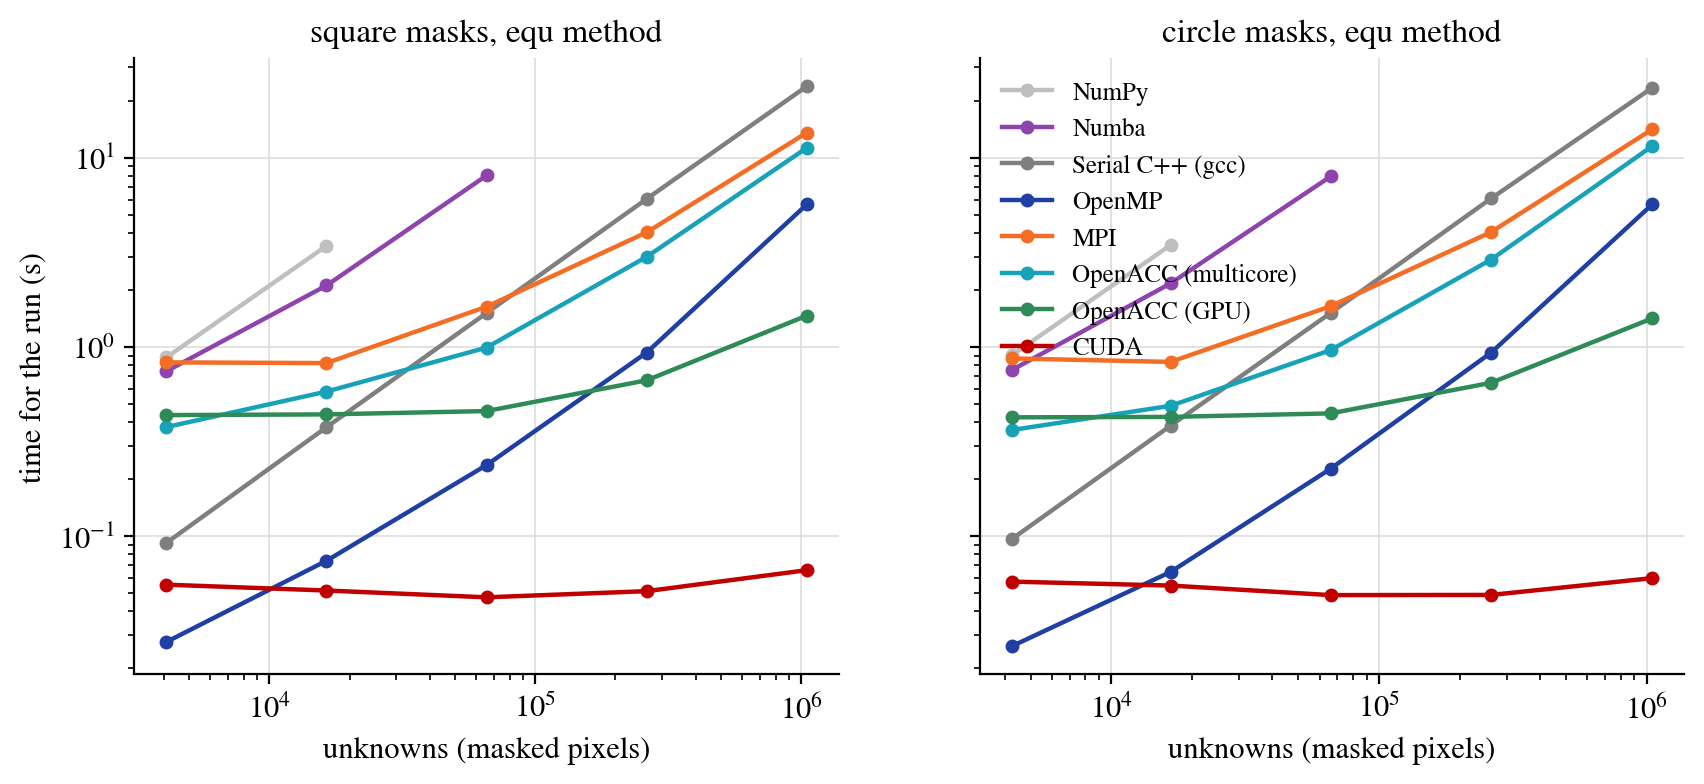
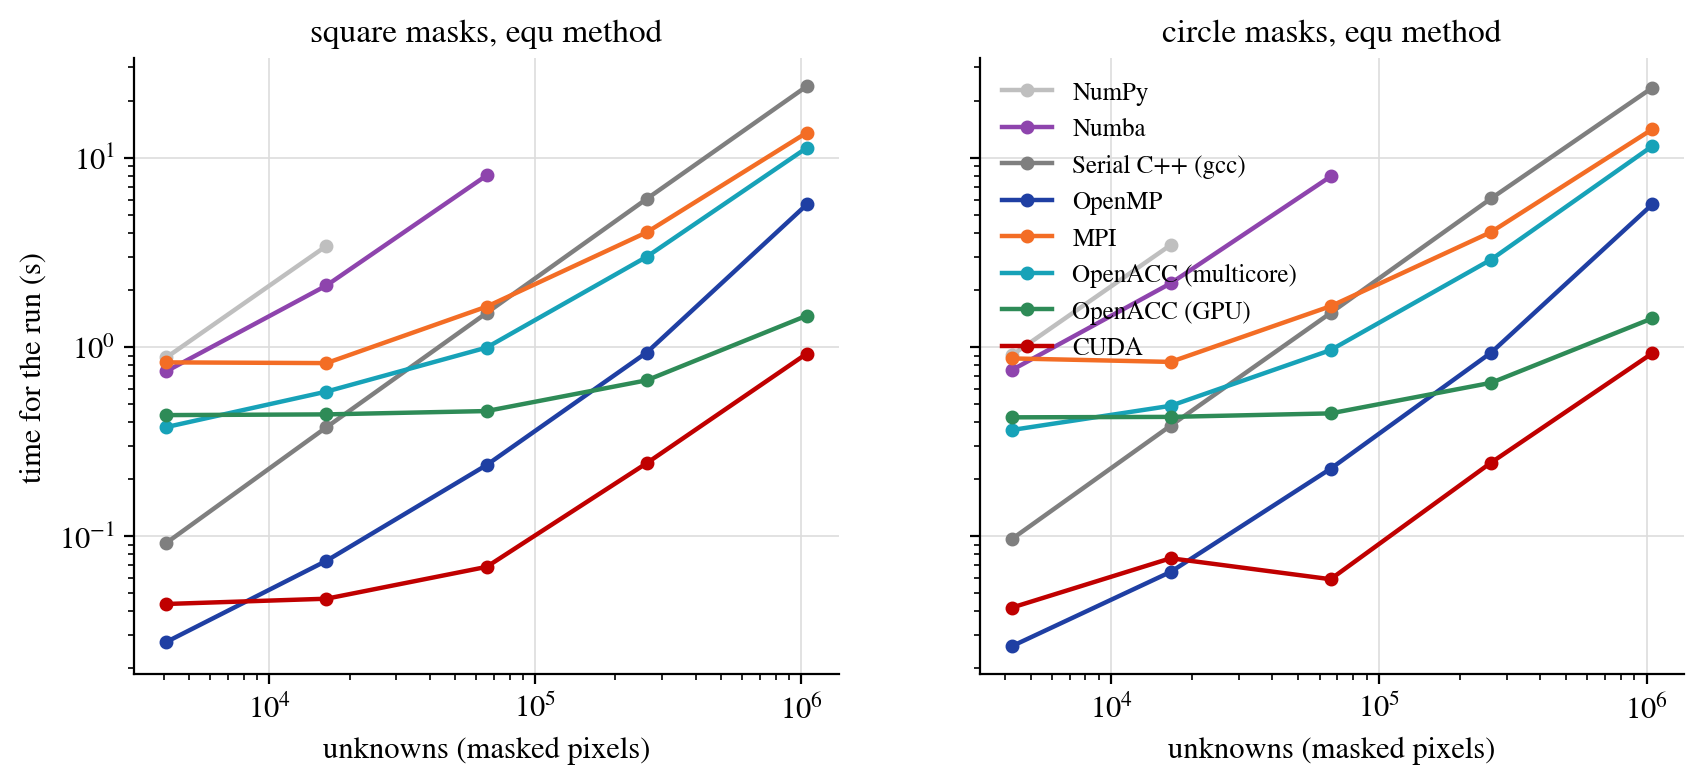
Re-run CUDA benchmarks with fixed kernel launch
The previous bench.csv's cuda rows for E1/E5/E6 were measured against
the broken build (kernels silently failing to launch from the PTX/driver
mismatch): flat ~0.05-0.07s regardless of problem size, consistent with
failed launches doing no real work. Re-ran just those 72 rows against
the fixed build; non-cuda rows are untouched.

Also fixes run_bench.py's resume/skip logic, found while doing this:
key() deduplicated on FIELDS[:13], which includes n_vars, but n_vars is
an output (only known from a run's own stdout) and is never set on a
freshly generated cfg. Every cfg's n_vars was "", which never matched an
already-written row's real n_vars, so incremental re-runs never actually
skipped anything -- the first attempt at this re-run silently re-executed
and duplicated every row, not just cuda's, before this was caught and
the dedup key was narrowed to the fields that actually identify a config.

CUDA's E1 times now scale with problem size (square6 1048577/1049486
vars at ~0.92s vs square6 4097/4256 vars at ~0.04s) instead of being
flat, and CUDA equ is consistently faster than openacc equ on the same
inputs (e.g. square10: 0.92s vs 1.46s).

diff --git a/bench/run_bench.py b/bench/run_bench.py
@@ -40,6 +40,15 @@ FIELDS = [
     "schedule", "chunk", "block", "grid", "sync", "repeat", "time_s",
     "err_r", "err_g", "err_b", "timestamp",
 ]
+# Identity fields for a config+repeat: everything that selects *what to run*.
+# n_vars is deliberately excluded even though it sits between "input" and
+# "iters" in FIELDS -- it's an output, only known from a run's own stdout
+# ("# of vars: N"), never set on a freshly generated cfg. Keying done-row
+# lookup off FIELDS[:13] (which includes n_vars) made every cfg's "" miss
+# every already-written row's real n_vars, so resuming never actually
+# skipped anything -- it silently re-ran and duplicated every row.
+KEY_FIELDS = ["exp", "backend", "method", "input", "iters", "threads", "ranks",
+              "schedule", "chunk", "block", "grid", "sync"]
 GPU_BACKENDS = {"cuda", "openacc", "taichi-gpu"}
 RE_TIME = re.compile(r"Time elapsed: ([0-9.eE+-]+)s")
 RE_VARS = re.compile(r"# of vars: (\d+)")
@@ -79,7 +88,7 @@ def shape_args(name: str) -> list:
 
 
 def key(cfg: dict, repeat: int) -> tuple:
-    return tuple(str(cfg.get(f, "")) for f in FIELDS[:13]) + (str(repeat),)
+    return tuple(str(cfg.get(f, "")) for f in KEY_FIELDS) + (str(repeat),)
 
 
 def run_once(cfg: dict, timeout: float) -> dict:
@@ -278,7 +287,7 @@ def main() -> None:
     if CSV_PATH.exists():
         with open(CSV_PATH) as f:
             for row in csv.DictReader(f):
-                done.add(tuple(row[k] for k in FIELDS[:13]) + (row["repeat"],))
+                done.add(tuple(row[k] for k in KEY_FIELDS) + (row["repeat"],))
     new_file = not CSV_PATH.exists()
     with open(CSV_PATH, "a", newline="") as f:
         writer = csv.DictWriter(f, fieldnames=FIELDS)

diff --git a/results/summary.md b/results/summary.md
@@ -12,13 +12,13 @@ Mode: full, 3 repeats per configuration (medians).
 | square10 | MPI | 13.5544 | 1.8x |
 | square10 | OpenACC (multicore) | 11.2706 | 2.1x |
 | square10 | OpenACC (GPU) | 1.4625 | 16.3x |
-| square10 | CUDA | 0.0661 | 360.6x |
+| square10 | CUDA | 0.9221 | 25.8x |
 | circle10 | Serial C++ (gcc) | 23.4039 | 1.0x |
 | circle10 | OpenMP | 5.6646 | 4.1x |
 | circle10 | MPI | 14.1275 | 1.7x |
 | circle10 | OpenACC (multicore) | 11.5072 | 2.0x |
 | circle10 | OpenACC (GPU) | 1.4152 | 16.5x |
-| circle10 | CUDA | 0.0600 | 390.1x |
+| circle10 | CUDA | 0.9255 | 25.3x |
 
 ## E2 OpenMP strong scaling
 
@@ -63,16 +63,16 @@ sync every 1000: 13.1962 s
 
 ## E5 CUDA launch geometry
 
-block 32: 0.0671 s
-block 64: 0.0679 s
-block 128: 0.0646 s
-block 256: 0.0737 s
-block 512: 0.0663 s
-block 1024: 0.0666 s
-tile 4x4: 0.0562 s
-tile 8x8: 0.0466 s
-tile 16x16: 0.0506 s
-tile 32x32: 0.0520 s
+block 32: 0.9238 s
+block 64: 0.9204 s
+block 128: 0.9278 s
+block 256: 0.9297 s
+block 512: 0.9220 s
+block 1024: 0.9147 s
+tile 4x4: 2.0022 s
+tile 8x8: 1.2902 s
+tile 16x16: 1.3953 s
+tile 32x32: 1.7372 s
 
 ## E7 Accuracy against the exact solution (20000 iterations)
 
